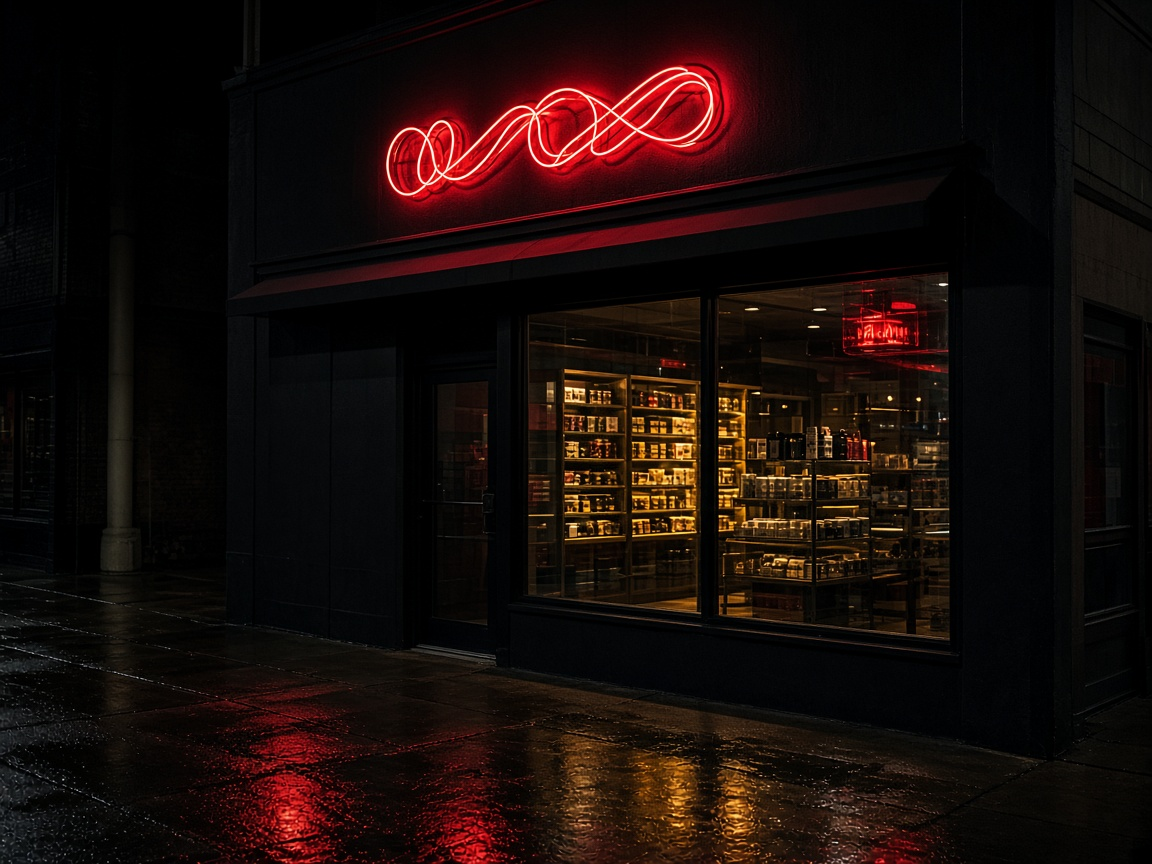
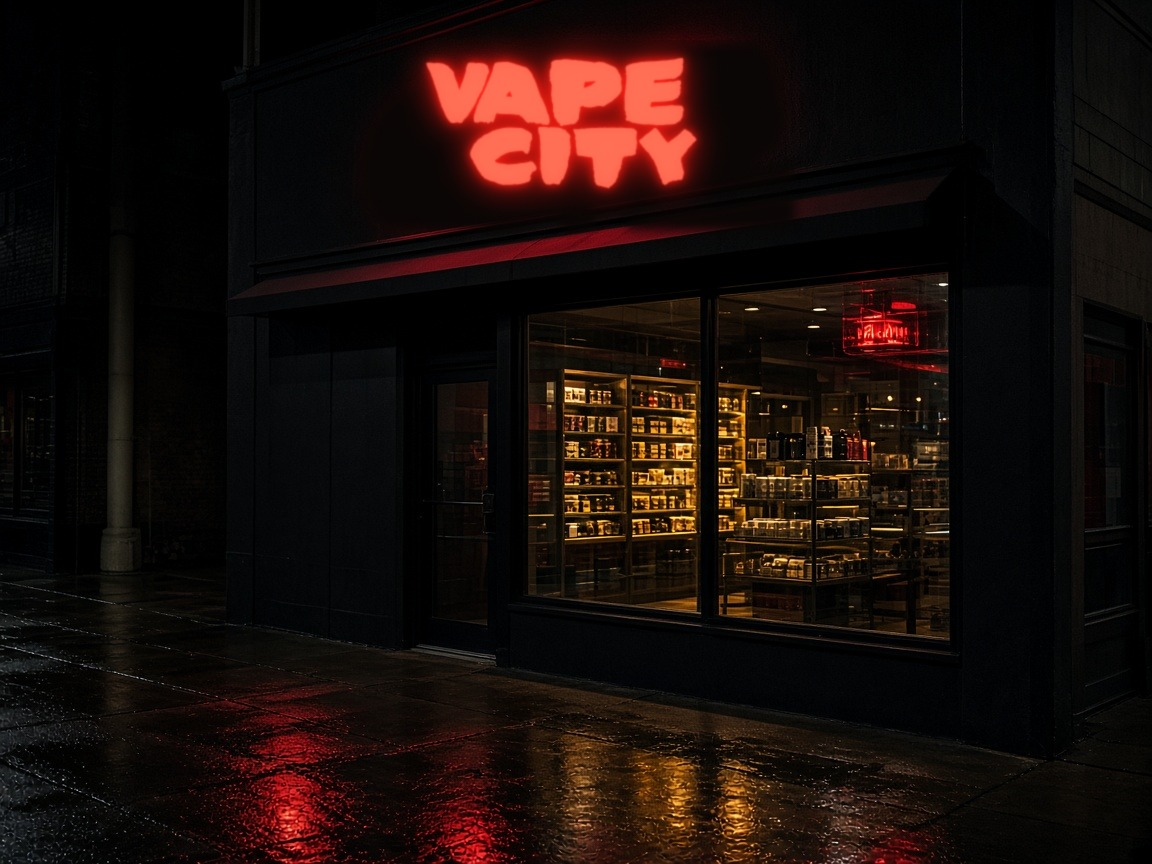
Take the product shelf off version 2 and letter the storefront sign.

Changed region(s): [[0.3125, 0.0312, 0.6875, 0.2812]]

diff --git a/v2/index.html b/v2/index.html
@@ -30,6 +30,7 @@ image-slot, image-slot::part(frame), image-slot::part(image) { touch-action: pan
   .shot-grid article { width: min(72vw, 300px); align-items: center; text-align: center; }
   .shot-grid article > div:first-child { aspect-ratio: 1 / 1 !important; width: 100%; }
   .about-photo { aspect-ratio: 16 / 10 !important; max-height: 220px; width: min(78vw, 340px); margin-inline: auto; }
+  .about-photo image-slot::part(image) { object-position: center top !important; }
   image-slot::part(image) {
     object-fit: cover !important; object-position: center center !important;
     width: 100% !important; height: 100% !important; left: 0 !important; top: 0 !important;
@@ -151,35 +152,6 @@ image-slot, image-slot::part(frame), image-slot::part(image) { touch-action: pan
   </div>
 </section>
 
-<section data-screen-label="On the shelf" aria-labelledby="h-shelf" style="max-width:1320px;margin:0 auto;padding:clamp(64px, 9vw, 120px) clamp(18px, 4vw, 40px) 0;display:flex;flex-direction:column;gap:44px">
-  <div style="display:flex;flex-direction:column;gap:14px">
-    <div style="width:44px;height:2px;background:#d42a20"></div>
-    <h2 id="h-shelf" style="margin:0;font-family:'Barlow Condensed', sans-serif;font-weight:600;font-size:clamp(42px, 6.5vw, 84px);line-height:0.95;letter-spacing:0.01em;text-transform:uppercase">On the shelf</h2>
-    <p style="margin:0;max-width:560px;font-family:'Cormorant Garamond', Georgia, serif;font-style:italic;font-weight:500;font-size:22px;line-height:1.4;color:#c9c4bd;text-wrap:pretty">A few things that don't stay long. In-store prices. Call to check stock.</p>
-  </div>
-  <div class="shot-grid" style="display:grid;grid-template-columns:repeat(auto-fill, minmax(min(100%, 250px), 1fr));gap:44px 24px">
-    <article style="display:flex;flex-direction:column;gap:16px">
-      <div style="aspect-ratio:1 / 1;background:#111;outline:1px solid rgba(255,255,255,0.08);filter:grayscale(1) contrast(1.15) brightness(0.88);transition:filter .5s" style-hover="filter:grayscale(0) contrast(1) brightness(1)"><image-slot id="prod-lighter-case" src="../assets/prod-lighter-case.jpg" shape="rect" placeholder="Product photo — leather lighter case"></image-slot></div>
-      <div style="display:flex;flex-direction:column;gap:8px;flex:1"><h3 style="margin:0;font-family:'Barlow Condensed', sans-serif;font-weight:600;font-size:24px;line-height:1.1;letter-spacing:0.03em;text-transform:uppercase">Leather lighter case</h3><p style="margin:0;font-size:16px;color:#a8a39c;text-wrap:pretty;flex:1">One damn fine coat. Snaps shut over a standard lighter and keeps the rain out.</p><div style="font-family:'Barlow Condensed', sans-serif;font-weight:600;font-size:30px;line-height:1;color:#e0392e">$14.99</div></div>
-    </article>
-    <article style="display:flex;flex-direction:column;gap:16px">
-      <div style="position:relative">
-        <div style="aspect-ratio:1 / 1;background:#111;outline:1px solid rgba(255,255,255,0.08);filter:grayscale(1) contrast(1.15) brightness(0.88);transition:filter .5s" style-hover="filter:grayscale(0) contrast(1) brightness(1)"><image-slot id="prod-stash-jar" src="../assets/prod-stash-jar.jpg" shape="rect" placeholder="Product photo — stash jar"></image-slot></div>
-        <div aria-hidden="true" title="Parked outside the farm" style="position:absolute;top:14px;right:14px;z-index:2;pointer-events:none;background:#e3b51a;color:#111;border-radius:3px;box-shadow:inset 0 0 0 2px #111, 0 4px 12px rgba(0,0,0,0.5);padding:3px 10px;font-family:'Barlow Condensed', sans-serif;font-weight:700;font-size:15px;letter-spacing:0.14em;transform:rotate(4deg)">TYB 069</div>
-      </div>
-      <div style="display:flex;flex-direction:column;gap:8px;flex:1"><h3 style="margin:0;font-family:'Barlow Condensed', sans-serif;font-weight:600;font-size:24px;line-height:1.1;letter-spacing:0.03em;text-transform:uppercase">Smell-proof stash jar</h3><p style="margin:0;font-size:16px;color:#a8a39c;text-wrap:pretty;flex:1">Airtight glass, black lid. What goes in stays in. So does the smell.</p><div style="font-family:'Barlow Condensed', sans-serif;font-weight:600;font-size:30px;line-height:1;color:#e0392e">$24.99</div></div>
-    </article>
-    <article style="display:flex;flex-direction:column;gap:16px">
-      <div style="aspect-ratio:1 / 1;background:#111;outline:1px solid rgba(255,255,255,0.08);filter:grayscale(1) contrast(1.15) brightness(0.88);transition:filter .5s" style-hover="filter:grayscale(0) contrast(1) brightness(1)"><image-slot id="prod-salt-nic" src="../assets/prod-salt-nic.jpg" shape="rect" placeholder="Product photo — salt-nic e-liquid"></image-slot></div>
-      <div style="display:flex;flex-direction:column;gap:8px;flex:1"><h3 style="margin:0;font-family:'Barlow Condensed', sans-serif;font-weight:600;font-size:24px;line-height:1.1;letter-spacing:0.03em;text-transform:uppercase">Salt-nic e-liquid, 30ml</h3><p style="margin:0;font-size:16px;color:#a8a39c;text-wrap:pretty;flex:1">Smooth hit, clean finish. Pick your strength at the counter.</p><div style="font-family:'Barlow Condensed', sans-serif;font-weight:600;font-size:30px;line-height:1;color:#e0392e">$19.99</div></div>
-    </article>
-    <article style="display:flex;flex-direction:column;gap:16px">
-      <div style="aspect-ratio:1 / 1;background:#111;outline:1px solid rgba(255,255,255,0.08);filter:grayscale(1) contrast(1.15) brightness(0.88);transition:filter .5s" style-hover="filter:grayscale(0) contrast(1) brightness(1)"><image-slot id="prod-hand-pipe" src="../assets/prod-hand-pipe.jpg" shape="rect" placeholder="Product photo — glass hand pipe"></image-slot></div>
-      <div style="display:flex;flex-direction:column;gap:8px;flex:1"><h3 style="margin:0;font-family:'Barlow Condensed', sans-serif;font-weight:600;font-size:24px;line-height:1.1;letter-spacing:0.03em;text-transform:uppercase">Glass hand pipe</h3><p style="margin:0;font-size:16px;color:#a8a39c;text-wrap:pretty;flex:1">Thick glass. Simple shape. Nothing to explain.</p><div style="font-family:'Barlow Condensed', sans-serif;font-weight:600;font-size:30px;line-height:1;color:#e0392e">$29.99</div></div>
-    </article>
-  </div>
-</section>
-
 <section id="deals" data-screen-label="Deals" aria-labelledby="h-deals" style="max-width:1320px;margin:0 auto;padding:clamp(64px, 9vw, 120px) clamp(18px, 4vw, 40px) 0;display:flex;flex-direction:column;gap:36px">
   <div style="display:flex;flex-direction:column;gap:14px">
     <div style="width:44px;height:2px;background:#d42a20"></div>
@@ -228,7 +200,7 @@ image-slot, image-slot::part(frame), image-slot::part(image) { touch-action: pan
       <div style="flex:none;display:flex;flex-direction:column;align-items:center"><div style="width:8px;height:14px;background:#1a1a1a;border:1px solid rgba(235,231,225,0.3);border-bottom:0"></div><div style="width:28px;height:58px;border:1px solid rgba(235,231,225,0.3);border-radius:8px 8px 2px 2px"></div></div>
       <div style="flex:none;width:88px;height:32px;border:1px solid rgba(235,231,225,0.3)"></div>
       <div style="flex:none;width:40px;height:88px;border:1px solid rgba(235,231,225,0.3);border-radius:18px 18px 2px 2px"></div>
-      <div style="flex:none;width:56px;height:52px;border:1px solid rgba(235,231,225,0.3);border-radius:3px"></div>
+      <div style="position:relative;flex:none;width:56px;height:52px;border:1px solid rgba(235,231,225,0.3);border-radius:3px"><div title="Parked outside the farm" style="position:absolute;left:1px;top:14px;background:#e3b51a;color:#111;border-radius:2px;box-shadow:inset 0 0 0 1px #111;padding:1px 3px;font-family:'Barlow Condensed', sans-serif;font-weight:700;font-size:9px;letter-spacing:0.06em;line-height:1;transform:rotate(-8deg);cursor:help">TYB 069</div></div>
     </div>
     <div style="height:6px;background:linear-gradient(180deg, #3a3632, #1a1816)"></div>
     <div style="font-family:'Cormorant Garamond', Georgia, serif;font-style:italic;font-size:16px;color:#a8a39c;padding:10px 6px 0">Back shelf. Not for sale. Don't ask.</div>

diff --git a/Vape City v2.dc.html b/Vape City v2.dc.html
@@ -30,6 +30,7 @@ image-slot, image-slot::part(frame), image-slot::part(image) { touch-action: pan
   .shot-grid article { width: min(72vw, 300px); align-items: center; text-align: center; }
   .shot-grid article > div:first-child { aspect-ratio: 1 / 1 !important; width: 100%; }
   .about-photo { aspect-ratio: 16 / 10 !important; max-height: 220px; width: min(78vw, 340px); margin-inline: auto; }
+  .about-photo image-slot::part(image) { object-position: center top !important; }
   image-slot::part(image) {
     object-fit: cover !important; object-position: center center !important;
     width: 100% !important; height: 100% !important; left: 0 !important; top: 0 !important;
@@ -151,35 +152,6 @@ image-slot, image-slot::part(frame), image-slot::part(image) { touch-action: pan
   </div>
 </section>
 
-<section data-screen-label="On the shelf" aria-labelledby="h-shelf" style="max-width:1320px;margin:0 auto;padding:clamp(64px, 9vw, 120px) clamp(18px, 4vw, 40px) 0;display:flex;flex-direction:column;gap:44px">
-  <div style="display:flex;flex-direction:column;gap:14px">
-    <div style="width:44px;height:2px;background:#d42a20"></div>
-    <h2 id="h-shelf" style="margin:0;font-family:'Barlow Condensed', sans-serif;font-weight:600;font-size:clamp(42px, 6.5vw, 84px);line-height:0.95;letter-spacing:0.01em;text-transform:uppercase">On the shelf</h2>
-    <p style="margin:0;max-width:560px;font-family:'Cormorant Garamond', Georgia, serif;font-style:italic;font-weight:500;font-size:22px;line-height:1.4;color:#c9c4bd;text-wrap:pretty">A few things that don't stay long. In-store prices. Call to check stock.</p>
-  </div>
-  <div class="shot-grid" style="display:grid;grid-template-columns:repeat(auto-fill, minmax(min(100%, 250px), 1fr));gap:44px 24px">
-    <article style="display:flex;flex-direction:column;gap:16px">
-      <div style="aspect-ratio:1 / 1;background:#111;outline:1px solid rgba(255,255,255,0.08);filter:grayscale(1) contrast(1.15) brightness(0.88);transition:filter .5s" style-hover="filter:grayscale(0) contrast(1) brightness(1)"><image-slot id="prod-lighter-case" src="./assets/prod-lighter-case.jpg" shape="rect" placeholder="Product photo — leather lighter case"></image-slot></div>
-      <div style="display:flex;flex-direction:column;gap:8px;flex:1"><h3 style="margin:0;font-family:'Barlow Condensed', sans-serif;font-weight:600;font-size:24px;line-height:1.1;letter-spacing:0.03em;text-transform:uppercase">Leather lighter case</h3><p style="margin:0;font-size:16px;color:#a8a39c;text-wrap:pretty;flex:1">One damn fine coat. Snaps shut over a standard lighter and keeps the rain out.</p><div style="font-family:'Barlow Condensed', sans-serif;font-weight:600;font-size:30px;line-height:1;color:#e0392e">$14.99</div></div>
-    </article>
-    <article style="display:flex;flex-direction:column;gap:16px">
-      <div style="position:relative">
-        <div style="aspect-ratio:1 / 1;background:#111;outline:1px solid rgba(255,255,255,0.08);filter:grayscale(1) contrast(1.15) brightness(0.88);transition:filter .5s" style-hover="filter:grayscale(0) contrast(1) brightness(1)"><image-slot id="prod-stash-jar" src="./assets/prod-stash-jar.jpg" shape="rect" placeholder="Product photo — stash jar"></image-slot></div>
-        <div aria-hidden="true" title="Parked outside the farm" style="position:absolute;top:14px;right:14px;z-index:2;pointer-events:none;background:#e3b51a;color:#111;border-radius:3px;box-shadow:inset 0 0 0 2px #111, 0 4px 12px rgba(0,0,0,0.5);padding:3px 10px;font-family:'Barlow Condensed', sans-serif;font-weight:700;font-size:15px;letter-spacing:0.14em;transform:rotate(4deg)">TYB 069</div>
-      </div>
-      <div style="display:flex;flex-direction:column;gap:8px;flex:1"><h3 style="margin:0;font-family:'Barlow Condensed', sans-serif;font-weight:600;font-size:24px;line-height:1.1;letter-spacing:0.03em;text-transform:uppercase">Smell-proof stash jar</h3><p style="margin:0;font-size:16px;color:#a8a39c;text-wrap:pretty;flex:1">Airtight glass, black lid. What goes in stays in. So does the smell.</p><div style="font-family:'Barlow Condensed', sans-serif;font-weight:600;font-size:30px;line-height:1;color:#e0392e">$24.99</div></div>
-    </article>
-    <article style="display:flex;flex-direction:column;gap:16px">
-      <div style="aspect-ratio:1 / 1;background:#111;outline:1px solid rgba(255,255,255,0.08);filter:grayscale(1) contrast(1.15) brightness(0.88);transition:filter .5s" style-hover="filter:grayscale(0) contrast(1) brightness(1)"><image-slot id="prod-salt-nic" src="./assets/prod-salt-nic.jpg" shape="rect" placeholder="Product photo — salt-nic e-liquid"></image-slot></div>
-      <div style="display:flex;flex-direction:column;gap:8px;flex:1"><h3 style="margin:0;font-family:'Barlow Condensed', sans-serif;font-weight:600;font-size:24px;line-height:1.1;letter-spacing:0.03em;text-transform:uppercase">Salt-nic e-liquid, 30ml</h3><p style="margin:0;font-size:16px;color:#a8a39c;text-wrap:pretty;flex:1">Smooth hit, clean finish. Pick your strength at the counter.</p><div style="font-family:'Barlow Condensed', sans-serif;font-weight:600;font-size:30px;line-height:1;color:#e0392e">$19.99</div></div>
-    </article>
-    <article style="display:flex;flex-direction:column;gap:16px">
-      <div style="aspect-ratio:1 / 1;background:#111;outline:1px solid rgba(255,255,255,0.08);filter:grayscale(1) contrast(1.15) brightness(0.88);transition:filter .5s" style-hover="filter:grayscale(0) contrast(1) brightness(1)"><image-slot id="prod-hand-pipe" src="./assets/prod-hand-pipe.jpg" shape="rect" placeholder="Product photo — glass hand pipe"></image-slot></div>
-      <div style="display:flex;flex-direction:column;gap:8px;flex:1"><h3 style="margin:0;font-family:'Barlow Condensed', sans-serif;font-weight:600;font-size:24px;line-height:1.1;letter-spacing:0.03em;text-transform:uppercase">Glass hand pipe</h3><p style="margin:0;font-size:16px;color:#a8a39c;text-wrap:pretty;flex:1">Thick glass. Simple shape. Nothing to explain.</p><div style="font-family:'Barlow Condensed', sans-serif;font-weight:600;font-size:30px;line-height:1;color:#e0392e">$29.99</div></div>
-    </article>
-  </div>
-</section>
-
 <section id="deals" data-screen-label="Deals" aria-labelledby="h-deals" style="max-width:1320px;margin:0 auto;padding:clamp(64px, 9vw, 120px) clamp(18px, 4vw, 40px) 0;display:flex;flex-direction:column;gap:36px">
   <div style="display:flex;flex-direction:column;gap:14px">
     <div style="width:44px;height:2px;background:#d42a20"></div>
@@ -228,7 +200,7 @@ image-slot, image-slot::part(frame), image-slot::part(image) { touch-action: pan
       <div style="flex:none;display:flex;flex-direction:column;align-items:center"><div style="width:8px;height:14px;background:#1a1a1a;border:1px solid rgba(235,231,225,0.3);border-bottom:0"></div><div style="width:28px;height:58px;border:1px solid rgba(235,231,225,0.3);border-radius:8px 8px 2px 2px"></div></div>
       <div style="flex:none;width:88px;height:32px;border:1px solid rgba(235,231,225,0.3)"></div>
       <div style="flex:none;width:40px;height:88px;border:1px solid rgba(235,231,225,0.3);border-radius:18px 18px 2px 2px"></div>
-      <div style="flex:none;width:56px;height:52px;border:1px solid rgba(235,231,225,0.3);border-radius:3px"></div>
+      <div style="position:relative;flex:none;width:56px;height:52px;border:1px solid rgba(235,231,225,0.3);border-radius:3px"><div title="Parked outside the farm" style="position:absolute;left:1px;top:14px;background:#e3b51a;color:#111;border-radius:2px;box-shadow:inset 0 0 0 1px #111;padding:1px 3px;font-family:'Barlow Condensed', sans-serif;font-weight:700;font-size:9px;letter-spacing:0.06em;line-height:1;transform:rotate(-8deg);cursor:help">TYB 069</div></div>
     </div>
     <div style="height:6px;background:linear-gradient(180deg, #3a3632, #1a1816)"></div>
     <div style="font-family:'Cormorant Garamond', Georgia, serif;font-style:italic;font-size:16px;color:#a8a39c;padding:10px 6px 0">Back shelf. Not for sale. Don't ask.</div>
